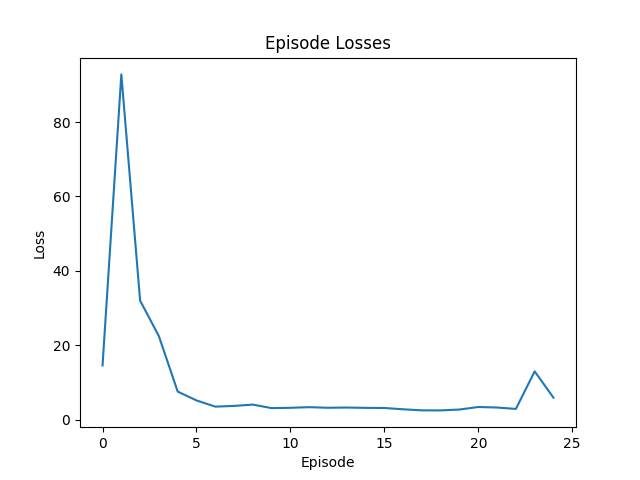
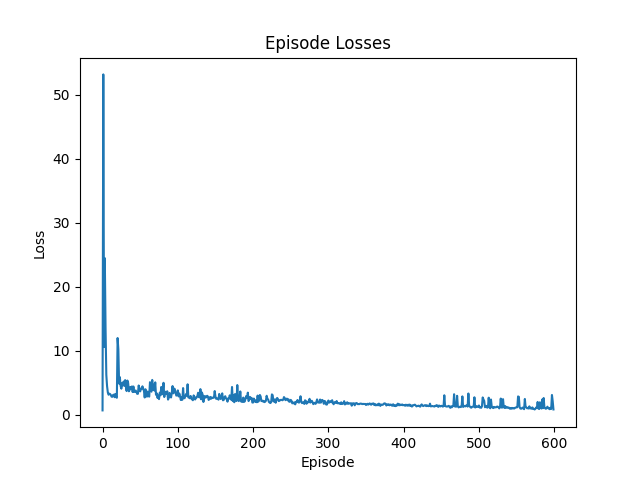
almost done

diff --git a/final/double_dqn.py b/final/double_dqn.py
@@ -1,0 +1,262 @@
+# Deep Q-Learning (Deep Q Network, DQN) with experience replay and epsilon-greedy exploration.
+
+# The creative addition of the implementation is the use of epslion decay and double DQN approach.
+# The epsilon decay is used to reduce the exploration rate over time.
+# The double DQN approach is used to reduce the overestimation of the Q-values.
+# The main difference between the Vanilla DQN and the Double DQN is the target equation, which is as follows:
+# target = r + gamma * Q(s', argmax_a Q(s', a)) instead of target = r + gamma * max_a Q(s', a).
+
+import torch
+import torch.nn as nn
+import torch.nn.functional as F
+import numpy as np
+
+import gym
+from tqdm import tqdm
+
+import random
+
+import matplotlib.pyplot as plt
+
+class ANN(nn.Module):
+   """Neural Network for the Q-function approximation"""
+
+   def __init__(self):
+      """Initialize the neural network and its layers"""
+      super(ANN, self).__init__()
+      
+      # Input layer that takes the 8 values of the state as input 
+      self.layer1 = nn.Linear(8, 512)
+      
+      # Hidden layer with 512 neurons
+      self.layer2 = nn.Linear(512, 256)
+      
+      # Output layer with 4 neurons, one for each action
+      self.layer3 = nn.Linear(256, 4)
+   
+   def forward(self, x):
+      """
+         Forward pass of the neural network
+         
+         x: state tensor with 8 values
+         output: Q-values for each action
+      """
+      x = F.relu(self.layer1(x))
+      x = F.relu(self.layer2(x))
+      x = self.layer3(x)
+      return x
+
+
+class Agent:
+   """Agent that interacts with the environment"""
+
+   def __init__(
+      self,
+      env=gym.make("LunarLander-v2"),
+      epsilon=1.0,
+      learning_rate=0.001,
+      discount_factor=0.99,
+      batch_size=32,
+      min_epsilon=0.01,
+      epsilon_decay=0.995
+   ):
+      """
+         Initialize the agent and its parameters
+
+         env: environment to interact with
+         epsilon: exploration rate
+         learning_rate: learning rate for the optimizer
+         discount_factor: discount factor for the Bellman equation
+         batch_size: batch size for the experience replay
+         min_epsilon: minimum exploration rate
+         epsilon_decay: decay rate for the exploration rate
+      """
+      self.Q = ANN()
+      self.optimizer = torch.optim.Adam(self.Q.parameters(), learning_rate)
+      self.epsilon = epsilon
+      self.discount_factor = discount_factor
+      self.env = env
+      self.buffer = []
+      self.batch_size = batch_size
+      self.epsilon_decay = epsilon_decay
+      self.min_epsilon = min_epsilon
+
+   def select_action(self, state):
+      """
+         Select an action based on the epsilon-greedy exploration strategy.
+
+         state: current state of the environment
+         output: action to take
+      """
+
+      # take a random action with probability epsilon
+      if np.random.random() < self.epsilon:
+         return self.env.action_space.sample()
+
+      # otherwise, take the action with the highest Q-value
+      output = self.Q(torch.FloatTensor(state))
+      return torch.argmax(output).item()
+
+   def update_weights(self):
+      """
+         Update the weights of the neural network using the experience replay.
+
+         output: value of the loss
+      """
+
+      # sample a batch of transitions from the replay buffer
+      random_sample = random.sample(self.buffer, self.batch_size)
+      states, actions, rewards, next_states, terminated = zip(*random_sample)
+
+      # convert the batch to tensors
+      states = torch.FloatTensor(states)
+      actions = torch.LongTensor(actions)
+      rewards = torch.FloatTensor(rewards)
+      next_states = torch.FloatTensor(next_states)
+      terminated = torch.FloatTensor(terminated)
+
+      # Q(s, a)
+      Q = self.Q(states).gather(1, actions.unsqueeze(1)).squeeze(1)
+
+      # max_a Q(s', a)
+      #max_Q = self.Q(next_states).max(1)[0]
+
+      # vanilla dqn target
+      # # target = r + gamma * max_a Q(s', a)
+      # target = rewards + self.discount_factor * max_Q * (1 - terminated)
+
+      # argmax_a Q(s', a)
+      argmax_Q = torch.argmax(self.Q(next_states), 1).unsqueeze(1)
+
+      # Q(s', argmax_a Q(s', a))
+      Q_next = self.Q(next_states).gather(1, argmax_Q).squeeze(1)
+
+      # double dqn target
+      # target = r + gamma * Q(s', argmax_a Q(s', a))
+      target = rewards + self.discount_factor * Q_next * (1 - terminated)
+
+      # loss = (Q(s, a) - target)^2
+      loss = F.mse_loss(Q, target)
+
+      # update the weights of the neural network
+      self.optimizer.zero_grad()
+      loss.backward()
+      self.optimizer.step()
+
+      return loss.item()
+
+   def train(self, n_episodes, n_steps=1000):
+      """
+         Train the agent on several episodes each with a maximum of n_steps.
+         The method also saves the figures of the rewards and losses.
+
+         n_episodes: number of episodes to train on
+         n_steps: maximum number of steps per episode
+      """
+
+      # lists to save the rewards and losses
+      episode_rewards = []
+      episode_losses = []
+
+      # train the agent on n_episodes
+      for episode in range(n_episodes):
+
+         # reset the environment
+         state, _ = self.env.reset()
+
+         # reset the episode reward and losses
+         episode_reward = 0
+         losses = []
+         
+         # run the episode for n_steps
+         for step in range(n_steps):
+
+            # select an action
+            action = self.select_action(state)
+            # take the action and observe the next state and reward
+            next_state, reward, terminated, truncated, info = self.env.step(action)
+
+            # add the reward to the episode reward
+            episode_reward += reward
+
+            # add to replay memory (s, a, r, s', t)
+            buffer_entry = (
+               state.tolist(),
+               action,
+               reward,
+               next_state.tolist(),
+               terminated
+            )
+            self.buffer.append(buffer_entry)
+
+            # update the state
+            state = next_state
+
+            # update the weights of the neural network if the replay buffer is full enough
+            if len(self.buffer) > self.batch_size:
+               loss = self.update_weights()
+               losses.append(loss)
+
+            # break the episode if terminated or truncated
+            if terminated or truncated:
+               break
+         
+         # decay the exploration rate
+         if self.epsilon > self.min_epsilon:
+            self.epsilon *= self.epsilon_decay
+         
+         # make sure the exploration rate is not below the minimum
+         if self.epsilon < self.min_epsilon:
+            self.epsilon = self.min_epsilon
+
+         # save the episode reward and loss
+         episode_loss = np.mean(losses)
+         episode_rewards.append(episode_reward)
+         episode_losses.append(episode_loss)
+
+         # print the episode information
+         print(
+            f"Episode {episode},",
+            f"epsilon {round(self.epsilon, 3)},",
+            f"episode reward {round(episode_reward, 3)},",
+            f"episode loss {round(episode_loss, 3)}"
+         )
+      
+      # save the figures of the rewards and losses
+      plt.plot(episode_rewards)
+      plt.xlabel("Episode")
+      plt.ylabel("Reward")
+      plt.title("Episode Rewards")
+      plt.savefig("dqn_episode_rewards.png")
+      plt.close()
+
+      plt.plot(episode_losses)
+      plt.xlabel("Episode")
+      plt.ylabel("Loss")
+      plt.title("Episode Losses")
+      plt.savefig("dqn_episode_losses.png")
+      plt.close()
+
+
+# train agent and demonstate it in practice
+
+import keyboard
+
+agent = Agent()
+agent.train(600)
+
+env = gym.make("LunarLander-v2", render_mode="human")
+observation, info = env.reset()
+
+while True:
+
+   if keyboard.is_pressed('esc'):
+      break
+
+   action = agent.select_action(observation)
+   observation, reward, terminated, truncated, info = env.step(action)
+
+   if terminated or truncated:
+      observation, info = env.reset()
+
+env.close()

diff --git a/final/ActorCritic.py b/final/ActorCritic.py
@@ -72,12 +72,15 @@ class Agent:
         self.policy = Policy(discount_factor)
         self.optimizer = torch.optim.Adam(self.policy.parameters(), lr=learning_rate)
 
+    def select_action(self, state):
+        return self.policy(torch.FloatTensor(state))
+
     def train(self, n_episodes, n_steps=1000):
         running_reward = 0
         for episode in range(n_episodes):
             state, _ = self.env.reset()
             for step in range(n_steps):
-                action = self.policy(torch.FloatTensor(state))
+                action = self.select_action(state)
                 state, reward, terminated, truncated, info = self.env.step(action)
                 self.policy.rewards.append(reward)
 
@@ -98,4 +101,24 @@ class Agent:
             )
             running_reward = 0
 
-Agent().train(10)
+import keyboard
+
+agent = Agent()
+agent.train(750)
+
+env = gym.make("LunarLander-v2", render_mode="human")
+observation, info = env.reset()
+
+while True:
+
+   if keyboard.is_pressed('esc'):
+      break
+
+   action = agent.select_action(observation)
+   observation, reward, terminated, truncated, info = env.step(action)
+
+   if terminated or truncated:
+      observation, info = env.reset()
+
+env.close()
+
